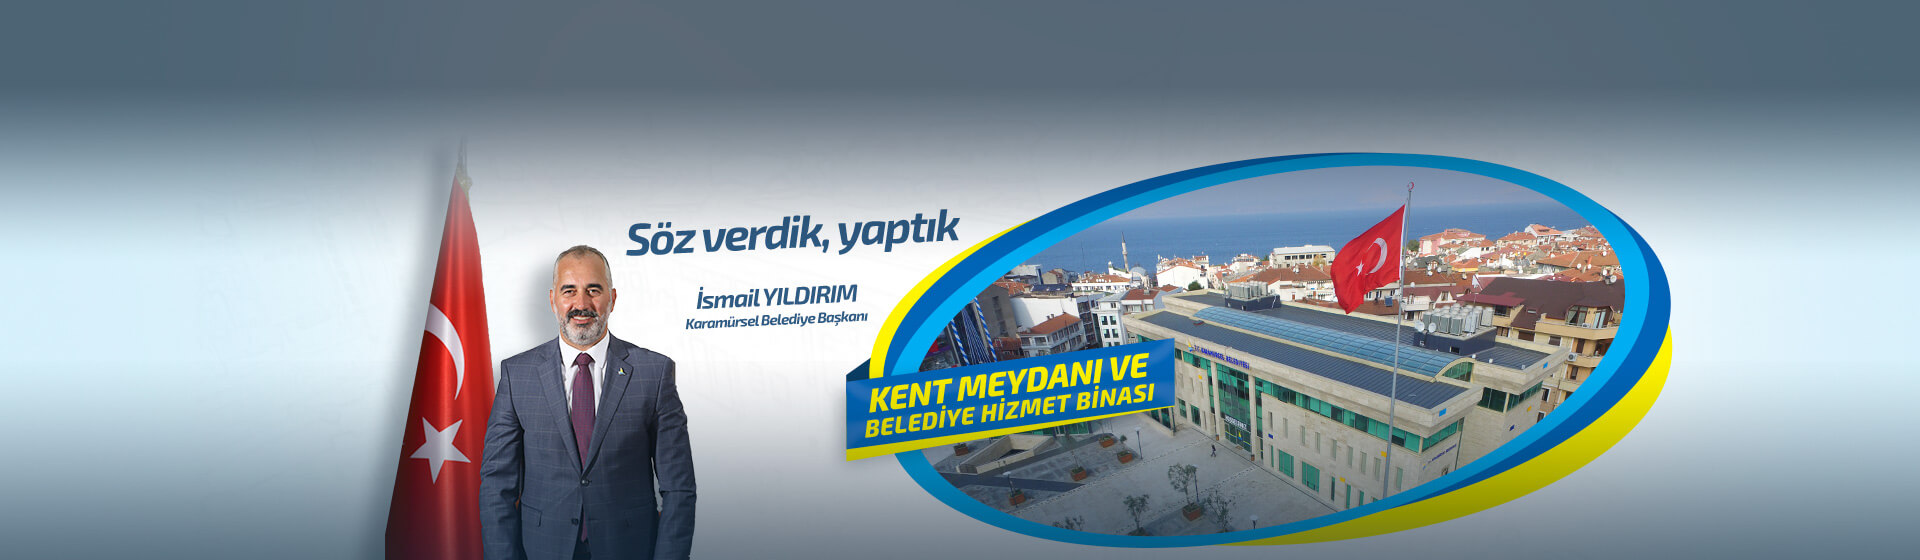
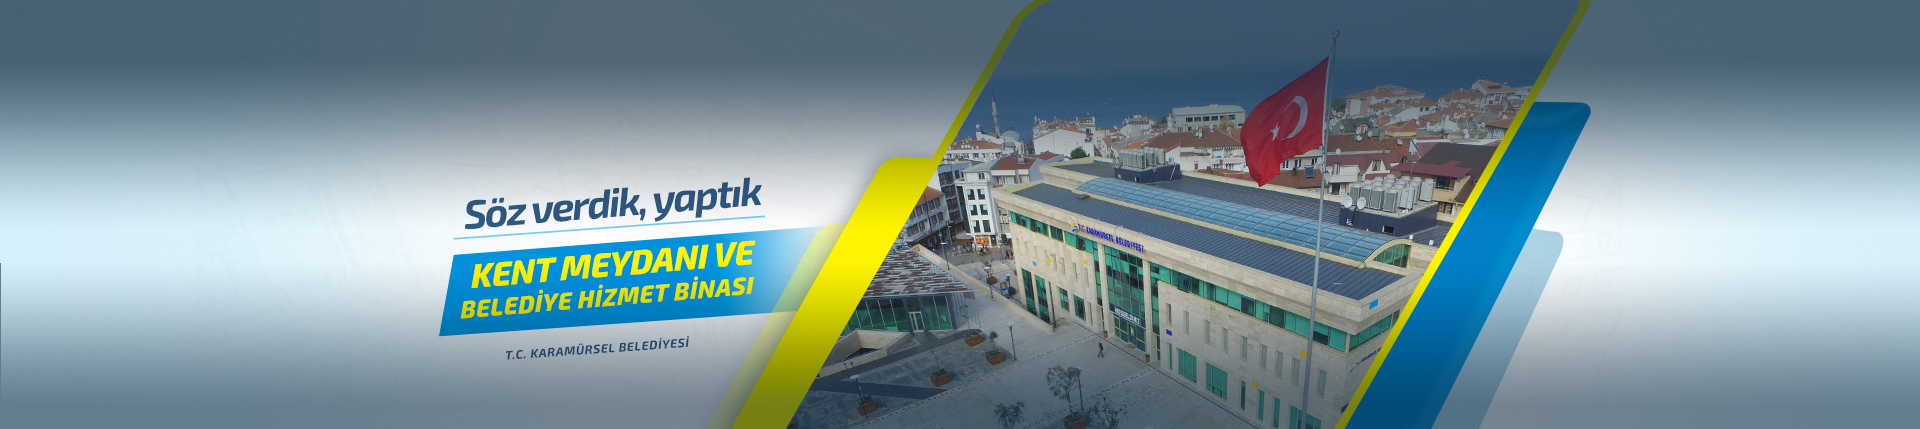
slider revise index

diff --git a/docs/css/style.css b/docs/css/style.css
@@ -23,7 +23,7 @@ a {
 
 .header {
   position: relative;
-  height: 560px; }
+  height: 420px; }
   @media (max-width: 1035px) {
     .header {
       height: 456px; } }
@@ -1617,7 +1617,7 @@ a {
     position: absolute;
     left: 0;
     right: 0;
-    top: 77%;
+    top: 64%;
     display: flex;
     justify-content: space-between;
     padding: 0; }
@@ -1649,7 +1649,7 @@ a {
     padding: 0;
     left: 0;
     right: 0;
-    bottom: 50px !important; }
+    bottom: 24px !important; }
     @media (max-width: 992px) {
       .swiper-container .dots {
         justify-content: center; } }
@@ -1663,8 +1663,11 @@ a {
       padding: 0px;
       height: 10px !important;
       width: 10px !important; }
+    .swiper-container .dots .swiper-pagination-bullet {
+      border: 2px white solid; }
     .swiper-container .dots .swiper-pagination-bullet-active {
-      background-color: white; }
+      background-color: white;
+      opacity: 1; }
 
 #slider-baslik-container {
   text-align: center;

diff --git a/src/scss/swiper-container.scss b/src/scss/swiper-container.scss
@@ -26,7 +26,7 @@
     position: absolute;
     left: 0;
     right: 0;
-    top:77%;
+    top:64%;
     display: flex;
     justify-content: space-between;
     padding: 0;
@@ -67,7 +67,7 @@
     padding: 0;
     left: 0;
     right: 0;
-    bottom: 50px !important;
+    bottom: 24px !important;
 
     @media (max-width: 992px) {
       justify-content: center;
@@ -86,8 +86,13 @@
       width: 10px !important;
     }
 
+    .swiper-pagination-bullet {
+      border: 2px white solid;
+    }
+
     .swiper-pagination-bullet-active {
       background-color: white;
+      opacity: 1;
     }
 
   }

diff --git a/src/scss/header.scss b/src/scss/header.scss
@@ -1,6 +1,6 @@
 .header {
   position: relative;
-  height: 560px;
+  height: 420px;
 
   @media (max-width: 1035px) {
     height: 456px;
